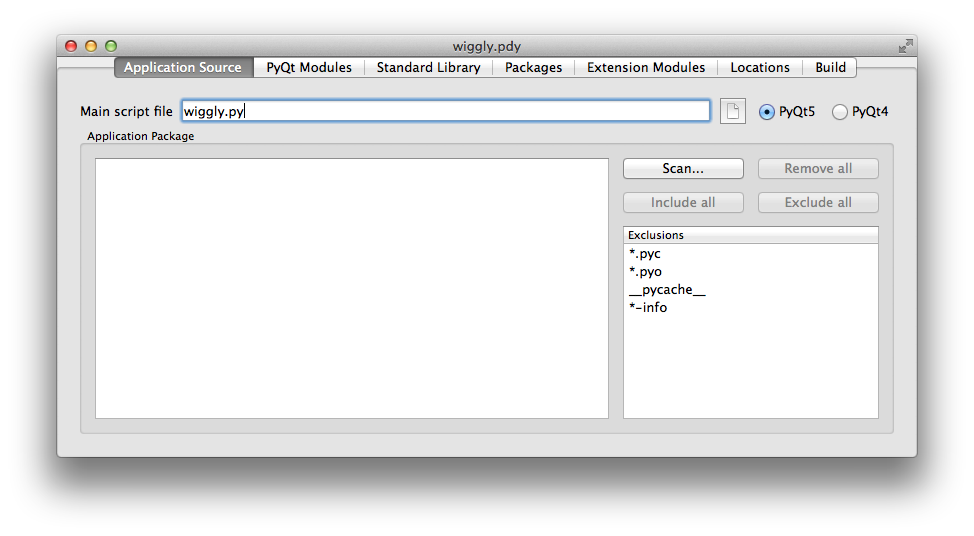
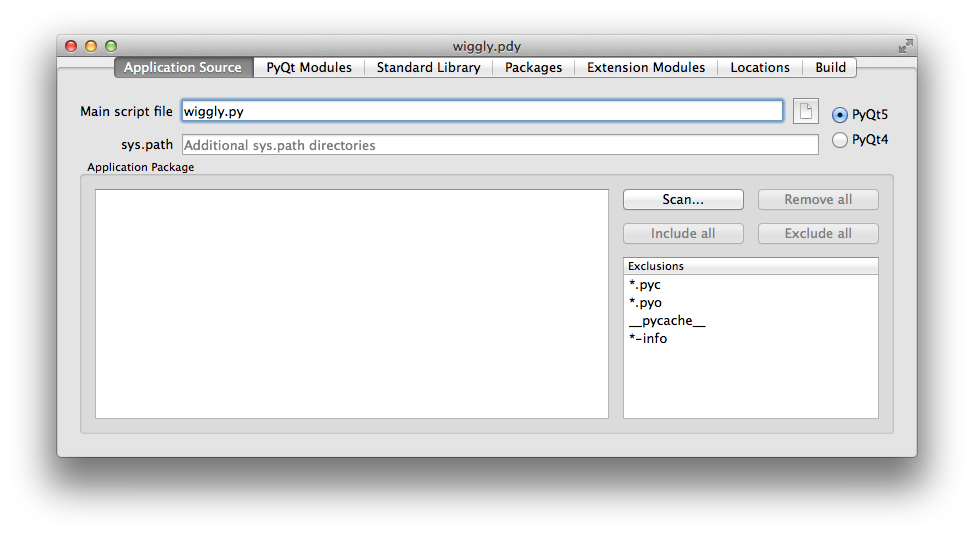
Documented the sys.path support.

Changed region(s): [[0.0924, 0.1791, 0.924, 0.6567]]

diff --git a/doc/tutorial.rst b/doc/tutorial.rst
@@ -48,6 +48,34 @@ The tab for defining the application source is shown below.
         embedding of environment variables which will be expanded when
         necessary.
 
+**sys.path**
+    is used to specify additional directories that will be added to
+    :data:`sys.path`.  By default :program:`pyqtdeploy` generates an
+    application that does not support the importing of packages or extension
+    modules that are not embedded in the application.  Indeed, some platforms
+    specifically disallow this.  However there are circumstances where this
+    ability is desired:
+
+    - you need to use an extension module that does not support being
+      statically compiled
+
+    - you allow users to write Python code that is imported by the application
+      to configure or extend its functionality.
+
+    The path is specified as a space separated list of directories.  Single or
+    double quotes may be used to embed spaces in directory names.  Environment
+    variables (specified using the standard UNIX notation) are expanded when
+    the application is run.  Any relative directory names are assumed to be
+    relative to the directory containing the application executable.  UNIX path
+    separators should be used - the application will automatically do the
+    appropriate conversions when running on Windows.
+
+    .. note::
+        If you wish to allow the importing of external extension modules then
+        you will also need to ensure that Python has been built with this
+        enabled.  See the :option:`--enable-dynamic-loading` option of the
+        :option:`configure` action.
+
 **PyQt5**
     is used to specify that the application is a PyQt5 application.
 
